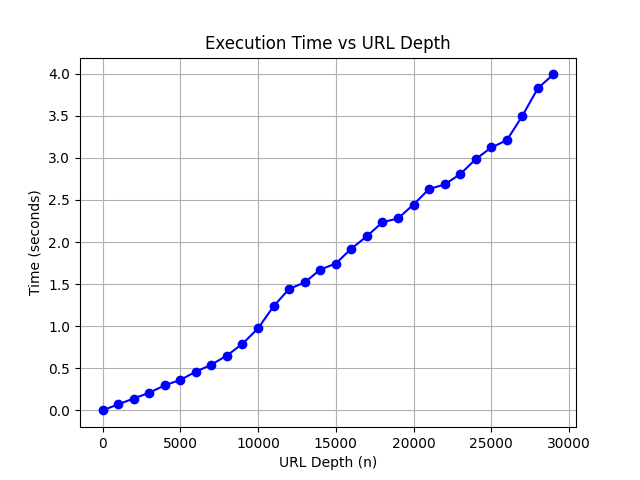
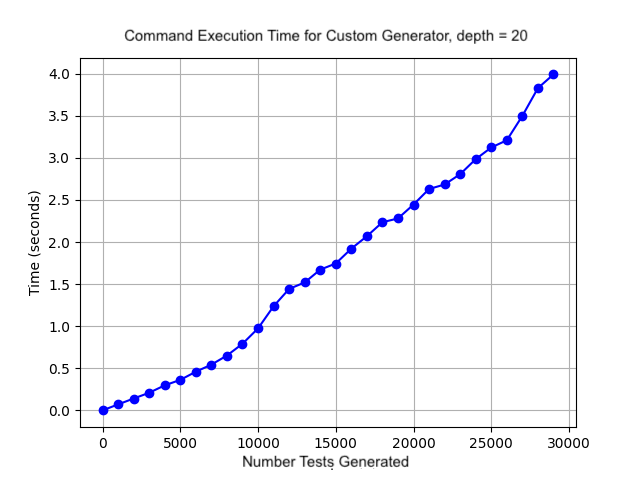
updated readme

Changed region(s): [[0.1875, 0.0625, 0.8438, 0.125], [0.375, 0.9375, 0.6562, 1.0]]

diff --git a/url/url_grammarinator_files/timing_grammarinator.py b/url/url_grammarinator_files/timing_grammarinator.py
@@ -3,14 +3,12 @@ import subprocess
 import matplotlib.pyplot as plt
 
 # Command to run
-command = "grammarinator-generate urlGenerator.urlGenerator --sys-path /Users/brooke_s/grammarinator-custom-generator/url_grammarinator_files -r url -d 20 -n "
 
 # Function to time the command and store results for plotting
 def time_command(number_run):
     times = []  # List to store times for each trial
     for i in number_run:
         command_run = command + str(i) 
-        print(command_run)
         start_time = time.time()  # Record start time
         subprocess.run(command_run, shell=True, check=True)  # Run the command
         end_time = time.time()  # Record end time
@@ -18,8 +16,9 @@ def time_command(number_run):
     return times
 
 # Get the times for running the command
-input_sizes = list(range(2, 30000, 1000))
-print(input_sizes)
+input_sizes = list(range(2, 10000, 1000))
+
+command = "grammarinator-generate urlGenerator.urlGenerator --sys-path /Users/brooke_s/grammarinator-custom-generator/URL/url_grammarinator_files -r url -d 20 -n "
 execution_times = time_command(input_sizes)
 
 # Plot the times for each trial

diff --git a/url/custom_url_files/custom_timer.py b/url/custom_url_files/custom_timer.py
@@ -3,22 +3,22 @@ import matplotlib.pyplot as plt
 from myUrlGenerator import myUrl
 
 #Function to measure runtime for different input sizes
-def time_function(input_sizes, num_trials=1):
+def time_function(input_sizes, depth, num_trials=1):
     urlGen = myUrl()
     times = []  # Store times for each input size
     for n in input_sizes:
         trial_times = []  # Store times for multiple trials for the same input size
         start_time = time.time()  # Record start time
-        urlGen.generateURL(n, 20)  # Run the function
+        urlGen.generateURL(n, depth)  # Run the function
         end_time = time.time()  # Record end time
         times.append(end_time - start_time)  # Append average time to the list
     return times
 
 # Define a range of input sizes to test
-input_sizes = list(range(0, 30000, 1000))
+input_sizes = list(range(0, 10000, 1000))
 
 # Get the times for the function
-execution_times = time_function(input_sizes)
+execution_times = time_function(input_sizes, 20)
 
 # Plot the times
 plt.plot(input_sizes, execution_times, marker='o', linestyle='-', color='b')

diff --git a/README.md b/README.md
@@ -37,6 +37,68 @@ manimgl ipv6/astar_sim.py
 
 
 ### URL Generator
+#### Running the test generators:
+Running the grammarinator generator, must be done from in the same folder that the grammar and generator class are in
+```bash
+grammarinator-generate urlGenerator.urlGenerator --sys-path /Users/brooke_s/grammarinator-custom-generator/URL/url_grammarinator_files -r url -d 10 -n 5
+```
 
+Running the custom generator, must be done from the folder that myUrlGenerator is in.
 
+Just running the below command as is will generate 10 tests of depth 10 due to the driver code at the bottom of the file:
+```bash
+python3 myUrlGenerator.py
+```
+
+##### TO GENERATE MORE TESTS/PASS IN DIFFERENT PARAMETERS:
+Make an instance of the myURL() class, and call the generate generateURL() method:
+
+```python
+URL = myURL()
+URL.generateURL(
+    #number of tests,
+    #depth,
+    #other params...
+    )
+```
+
+#### Testing:
+
+To check the coverage, you must go to the file and choose which generator's tests to run the coverage tests on:
+```python
+#for custom generator:
+custom_tests = testsToList("/Users/brooke_s/grammarinator-custom-generator/url/custom_url_files/tests")
+#for grammarinator:
+custom_tests = testsToList("/Users/brooke_s/grammarinator-custom-generator/url/url_grammarinator_files/tests")
+```
+Leave the line of the test suite you want uncommented, and comment out the other.
+
+```bash
+coverage run url_coverage_script.py
+```
+
+To test timing, each generator has its own file inside the associated folder. 
+
+To time the custom generator, you can call time_function from a different file or you can run custom_timer.py:
+
+```bash
+python3 custom_timer.py
+```
+As is, this will test and plot how long it takes to generate 10,000 tests with depth 20.
+
+To run timing for Grammarinator, you can call timing_grammarinator
+```bash
+python3 timing_grammarinator.py
+```
+
+Right now it runs the same test as for custom, with depth 20. You can change depth and the range of number of tests by altering lines 21 and 19 respectively.
+
+#### Validity
+Finally, to check the validity of the tests that are currently generated, run urlValidator. This will evaluate any tests currently in the tests folders for both generators and print the invalid URLs. 
+
+##### Note that this requires django since it relies on a django validator
+
+```bash
+python3 urlValidator.py
+```
 ### AWS ARN Generator
